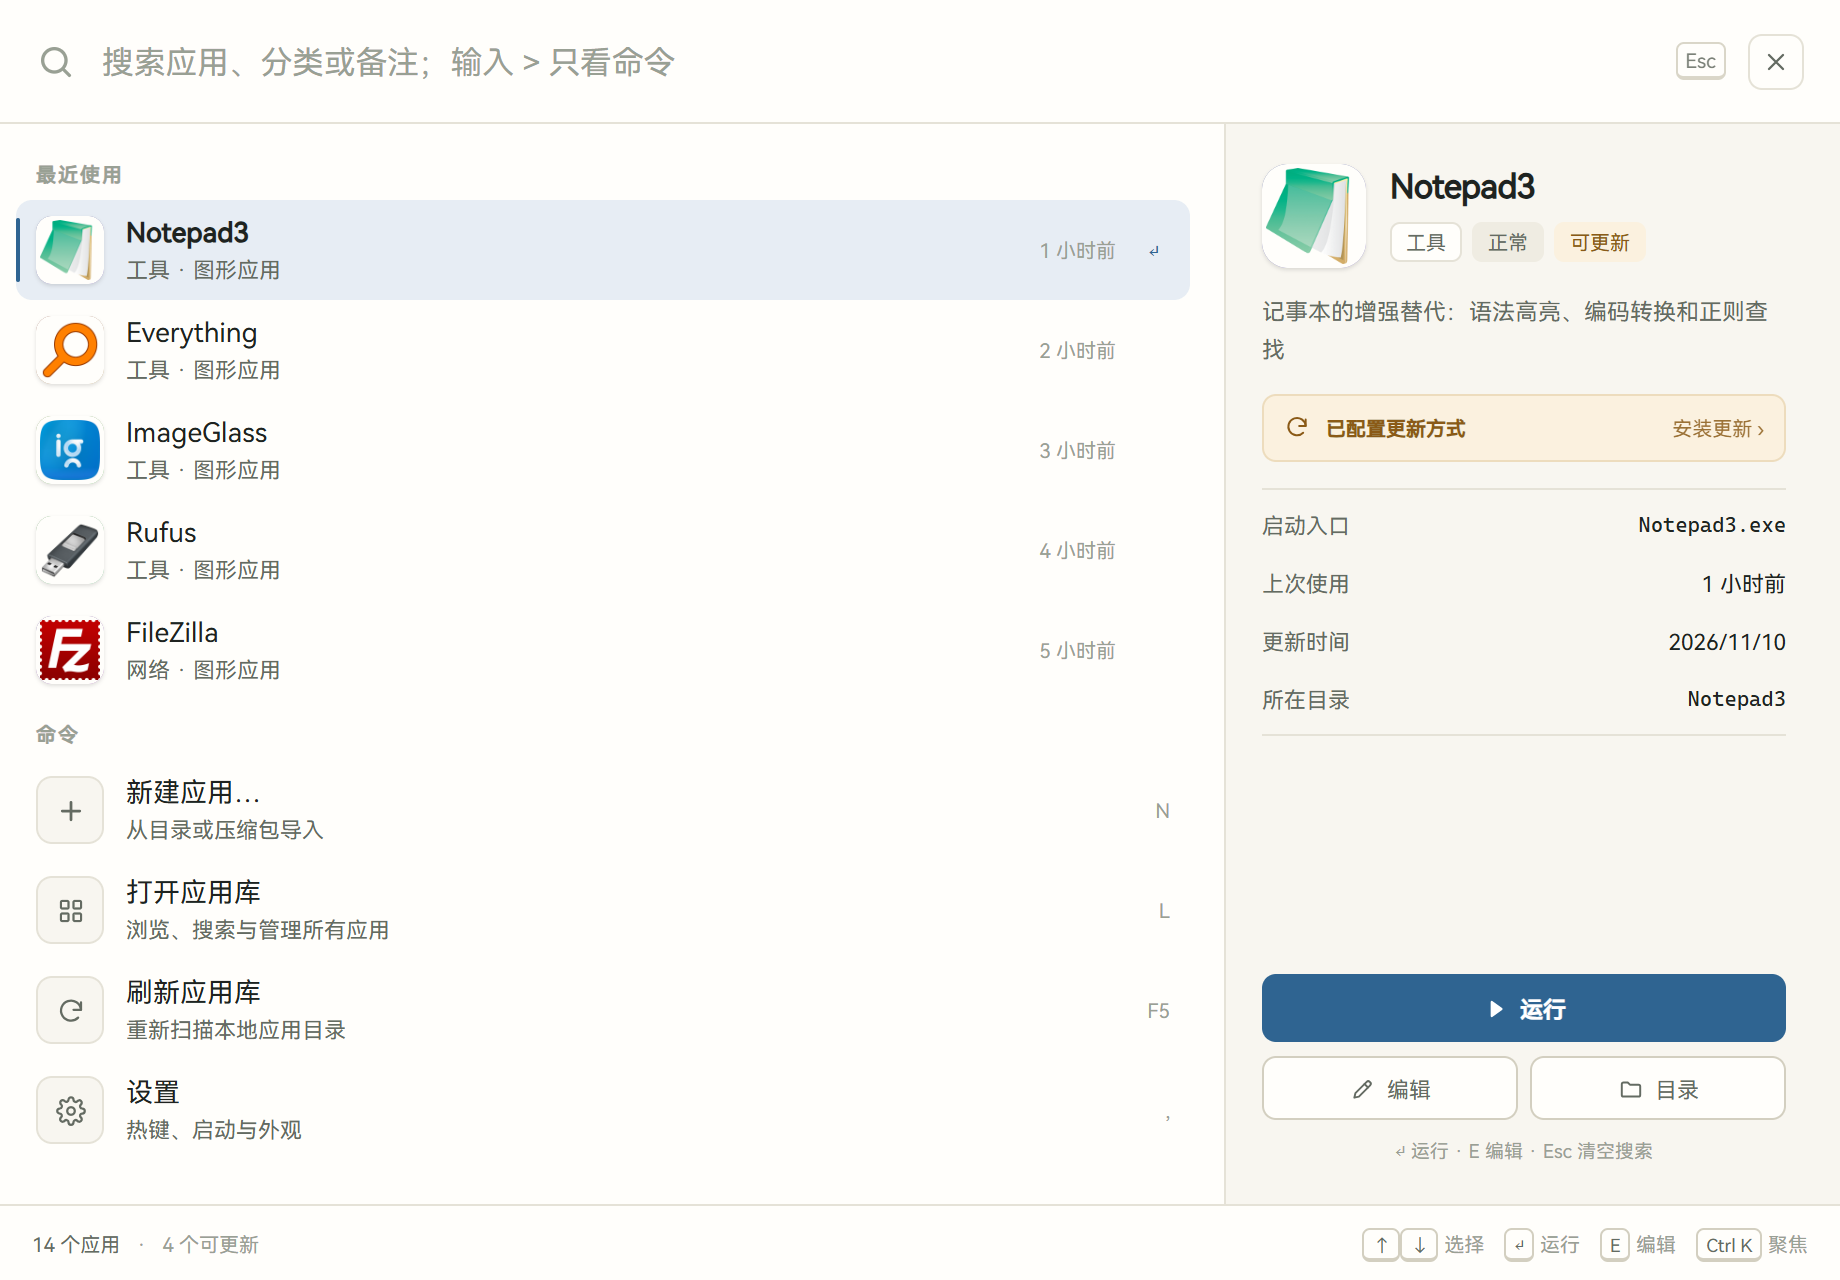
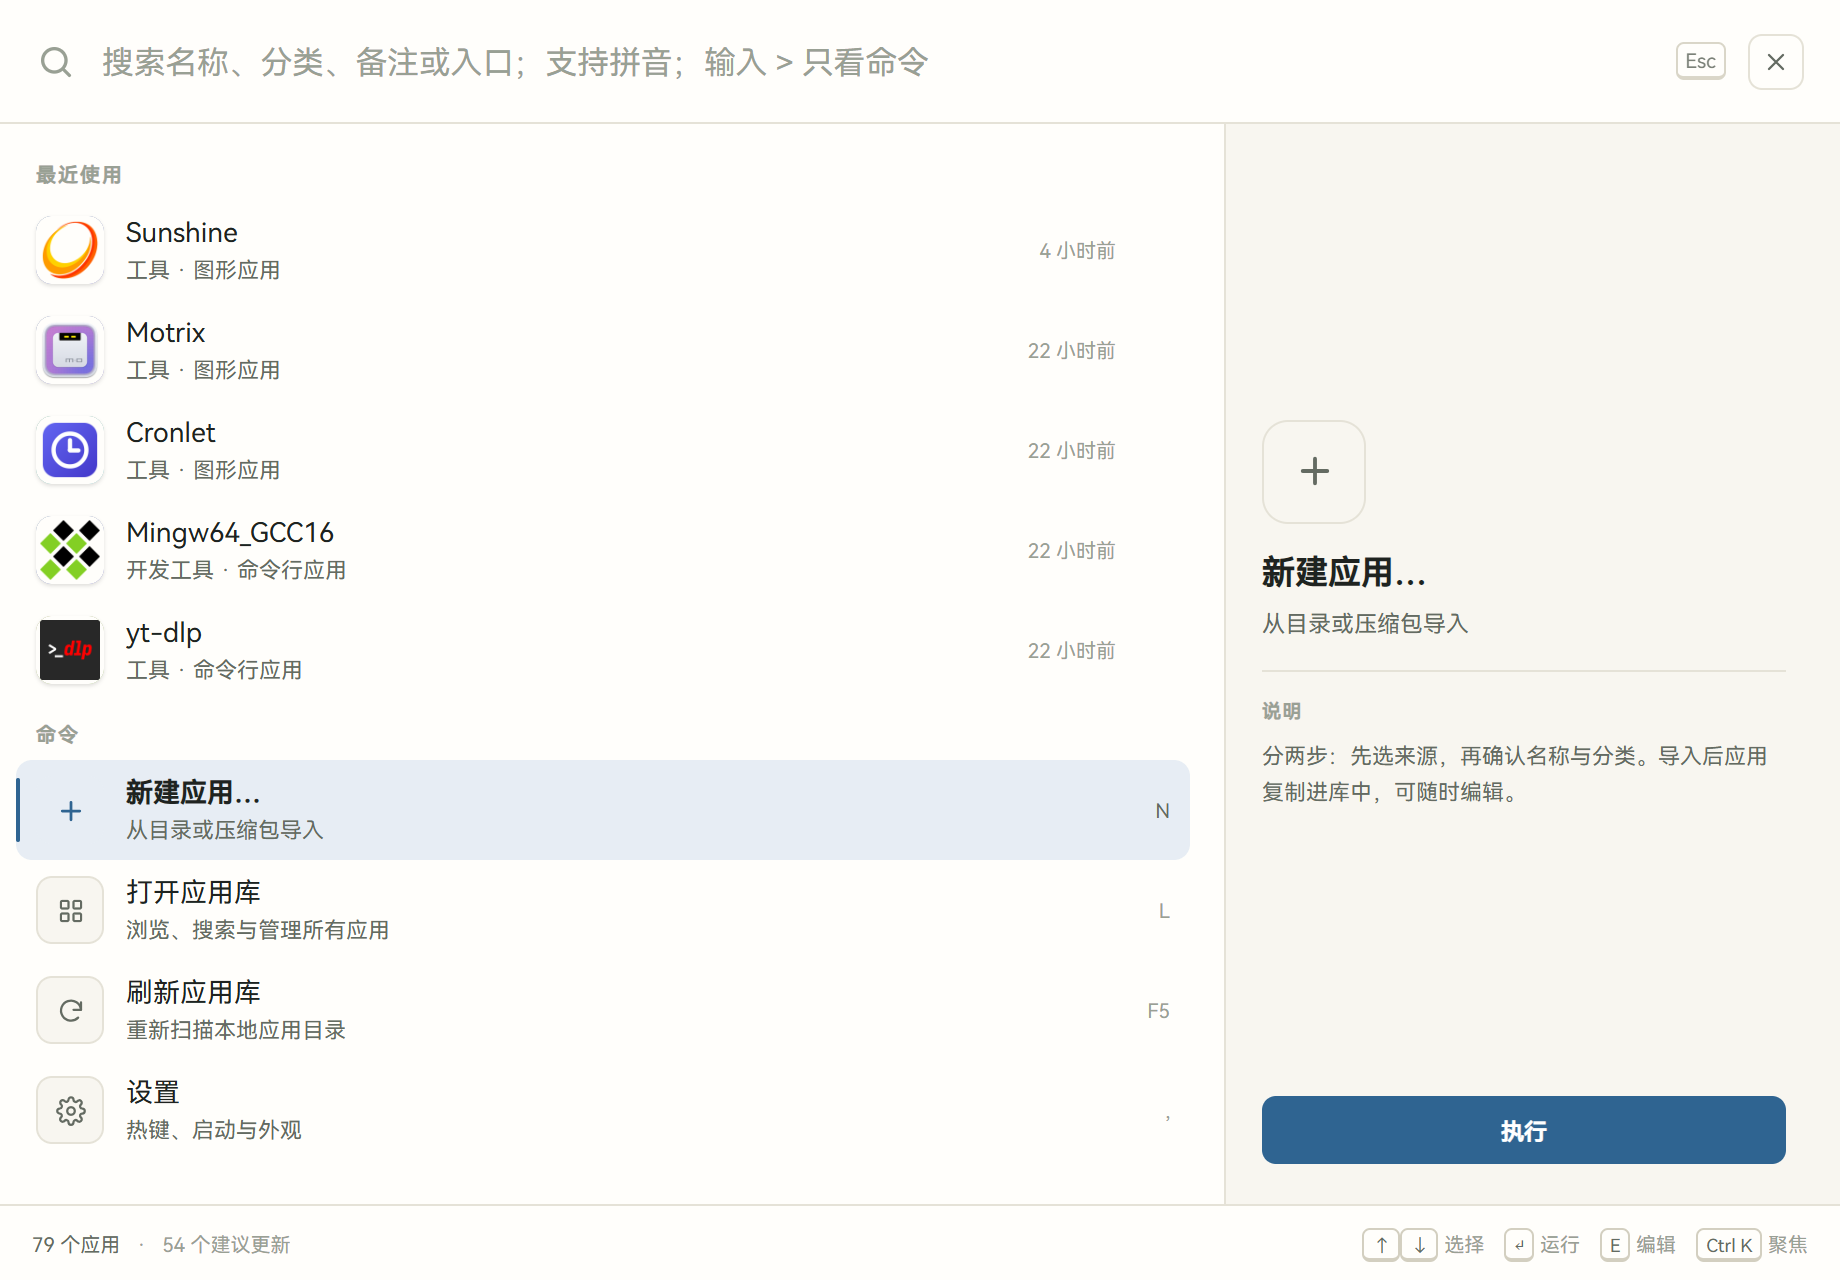
Update the README and screenshots for the current behavior

diff --git a/README.md b/README.md
@@ -56,6 +56,7 @@ type = "GUI"            # GUI | CLI
 entry = "editor.exe"    # 相对 content，或以 re: 开头按文件名匹配
 run_as_admin = false
 updater = ["PIN:settings", "RMC", "UNPKG"]
+last_update_at = "2026-11-17T10:00:00+08:00"  # 安装更新后写入，建议更新据此判定
 
 [[related_links]]
 title = "官网"
@@ -65,7 +66,7 @@ url = "https://example.com"
 - 扫描为缺失、重复或非法的 UUID 生成 v4 身份并写回；配置损坏时显示目录名与错误，不覆盖原文件。
 - 保存通过临时文件替换，保留可解析的未知字段，但会重排 TOML 并移除注释；只读文件保存失败时保留界面编辑。
 - `entry` 必须指向 `content` 内的普通文件，越界或缺失即入口无效；`re:` 使用 Go RE2 正则，不支持后行断言与反向引用。
-- GUI 应用经 Shell 启动，CLI 应用经 `pwsh -NoExit` 启动（缺失时用 Windows PowerShell），入口目录加入 PATH；管理员选项只提升被启动的应用。
+- GUI 应用经 Shell 启动；CLI 应用不执行入口，只打开 `pwsh -NoExit`（缺失时用 Windows PowerShell）并把入口目录加入 PATH，工作目录为用户目录；管理员选项只提升被启动的应用。
 - 图标缺失、损坏或超过 4 MiB 时使用字母占位。
 
 ## 配置与持久化
@@ -74,7 +75,7 @@ url = "https://example.com"
 
 | 位置 | 内容 |
 | --- | --- |
-| `<应用库>\<应用>\app.toml` | 分类、备注、入口、管理员、链接、更新操作与 UUID |
+| `<应用库>\<应用>\app.toml` | 分类、备注、入口、管理员、链接、更新操作、UUID 与上次更新时间 |
 | `<应用库>\state.json` | 最近使用的 UUID、标题和最后启动时间 |
 | `%APPDATA%\app-runner.exe\EBWebView\` | 界面偏好：`app-runner-theme`、`app-runner-autohide`、`app-runner-categories:<应用库路径>` |
 | `%LOCALAPPDATA%\app-runner\instance.lock` | 单实例锁，进程退出后由系统释放 |
@@ -100,9 +101,9 @@ url = "https://example.com"
 | 托盘菜单 | 显示窗口、退出 |
 | 再次启动 | 唤回已运行实例 |
 
-应用库的筛选项为全部应用、最近使用（7 天内启动）、可更新和分类，排序支持最近使用、名称（中文与数字自然排序）和更新时间。分类为一级目录，未填写时归入“未分类”。
+应用库的筛选项为全部应用、最近使用（7 天内启动）、建议更新和分类，排序支持最近使用、名称（中文与数字自然排序）和更新时间。建议更新表示 `app.toml` 记录的 `last_update_at` 已超过 30 天；没有该字段的旧应用回退到 `content` 目录的修改时间。分类为一级目录，未填写时归入“未分类”。
 
-拖动应用行到侧栏分类即修改分类，拖到“＋ 新建分类”可新建并移入；右键分类可重命名或删除，删除后成员回到“未分类”，应用文件与配置保留。编辑面板可修改名称、分类、备注、类型、入口、管理员、链接和更新操作，行尾按钮提供运行与编辑。
+拖动应用行到侧栏分类即修改分类，拖到“＋ 新建分类”可新建并移入；右键分类可重命名或删除，删除后成员回到“未分类”，应用文件与配置保留。编辑面板可修改名称、分类、备注、类型、入口、管理员、链接和更新操作，顶部显示入口文件的版本号，行尾按钮提供运行与编辑。
 
 ## 新建与更新
 
@@ -116,7 +117,7 @@ url = "https://example.com"
 | `RMC` | 无 | 清除未固定的旧内容 |
 | `UNPKG` | 无 | 解包压缩包或复制目录，覆盖安装内容 |
 
-更新前完整复制 `content` 到 `content.bak`，失败时保留备份并给出恢复路径。ZIP 使用标准库，7z 使用内置 `github.com/bodgit/sevenzip`，不调用外部解压工具；拒绝越界路径和符号链接，单层包装目录自动去除，不支持加密压缩包。
+替换更新把旧内容整体移动到 `content.bak`，覆盖更新只备份将被覆盖的文件；失败时保留备份并给出恢复路径。安装完成后把当前时间写入 `app.toml` 的 `last_update_at`。ZIP 使用标准库，7z 使用内置 `github.com/bodgit/sevenzip`，不调用外部解压工具；拒绝越界路径和符号链接，单层包装目录自动去除，不支持加密压缩包。
 
 ## 验证
 
@@ -128,7 +129,7 @@ npm --prefix frontend run check
 wails3 build
 ```
 
-Go 测试覆盖扫描容错、暂存回收、UUID、只读配置、保存、最近使用、入口、备份、PIN 边界、ZIP / 7z 和失败保留；前端测试覆盖筛选排序、关键字与拼音搜索、时间边界、草稿隔离与更新参数校验。
+Go 测试覆盖扫描容错、暂存回收、UUID、只读配置、保存、最近使用、入口、更新时间、备份、PIN 边界、ZIP / 7z 和失败保留；前端测试覆盖筛选排序、关键字与拼音搜索、时间边界、草稿隔离与更新参数校验。
 
 无界面扫描：
 
@@ -154,7 +155,8 @@ Windows 使用已安装的 Edge，其他平台需先 `npx playwright install chr
 main.go                       入口、窗口、托盘、单实例、自检
 launcherservice.go            Wails 服务、原生对话框与文件选择
 internal/launcher/            扫描、配置、启动、使用记录、更新
-frontend/src/main.ts          界面与交互
+frontend/src/main.ts          应用库与命令中心
+frontend/src/detail.ts        编辑、新建与设置面板
 frontend/src/state.ts         筛选、排序、草稿与校验
 frontend/src/style.css        界面样式
 frontend/bindings/            Wails 生成的类型绑定
